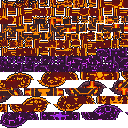
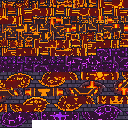
The Outer Keep built room by room: the Killing Ground's flank walls, burning trenches and gate wall; the Siege Trench's angled defences and alcoves; two real Watchtowers; the Drawbridge Engine's housings, winch drums, levers and platforms; the Barbican's thick wall, arch and guard alcoves; the Hall 

diff --git a/src/world/maps.js b/src/world/maps.js
@@ -1847,14 +1847,14 @@ export function dungeon(seed, def) {
   // which of the sheet's four each keep room is (2026-11-02, the user: "whichever rooms you think would look best with which
   // design. But make a unique room for the drawbridge"): halls of state, broken courtyards, a fire bastion, ritual galleries;
   // the Drawbridge Engine its own: the machine that works the bridge
-  const KEEP_KIND = { a22: 'hall', a24: 'hall', a25: 'hall', a27: 'hall', a29: 'hall', a20: 'yard', a28: 'yard', a33: 'yard', a21: 'bastion', a30: 'bastion',
+  const KEEP_KIND = { a22: 'towers', a24: 'barbican', a25: 'banners', a26: 'court', a27: 'hall', a29: 'hall', a20: 'killing', a28: 'yard', a33: 'yard', a21: 'trench', a30: 'bastion',
     a31: 'ritual', a32: 'ritual', a37: 'ritual', a23: 'engine' };
   m.keepKind = KEEP_KIND; m.keepSkin = m.keepSkin || new Map();
   const keepDress = (n) => {
     const kind = KEEP_KIND[n.key], skin = (x, y, name) => m.keepSkin.set(y * S + x, name);
     // its banners by what the room is (the user's banner rules, 2026-11-02): crown in halls of state, sun on the defences,
     // forge in the forges, cursed purple in ritual rooms, torn where the battle went through
-    const forge = n.num >= 34, BAN = kind === 'hall' ? ['banner_crown', 'banner_sun'] : kind === 'ritual' ? ['banner_cursed', 'banner_eclipse'] : kind === 'yard' ? ['banner_crown_torn', 'banner_sun_torn', 'banner_castle_torn'] : forge ? ['banner_forge', 'banner_chain_forge'] : kind === 'engine' ? ['banner_forge'] : ['banner_sun', 'banner_castle'];
+    const forge = n.num >= 34, BAN = kind === 'banners' || kind === 'court' ? ['banner_cursed', 'banner_crown', 'banner_eclipse'] : kind === 'barbican' ? ['banner_crown', 'banner_sun'] : kind === 'killing' || kind === 'trench' ? ['banner_sun_torn', 'banner_crown_torn', 'banner_castle_torn'] : kind === 'towers' ? ['banner_sun', 'banner_chain_sun'] : kind === 'hall' ? ['banner_crown', 'banner_sun'] : kind === 'ritual' ? ['banner_cursed', 'banner_eclipse'] : kind === 'yard' ? ['banner_crown_torn', 'banner_sun_torn', 'banner_castle_torn'] : forge ? ['banner_forge', 'banner_chain_forge'] : kind === 'engine' ? ['banner_forge'] : ['banner_sun', 'banner_castle'];
     const fl = (x, y) => { const t = tile(x, y); return t !== WALL && t !== TID.void && !SOLID_TILES.has(t) && t !== TID.lava; }, wl = (x, y) => !fl(x, y);
     const road = m.castle && m.castle.roadTiles, clear = (x, y) => !(road && road.has(y * S + x)) && !m.objects.some((o) => Math.floor(o.x) === x && Math.floor(o.y) === y);
     const cx = Math.round(n.cx), cy = Math.round(n.cy), topY = (x) => { for (let y = n.y; y < n.y + n.h; y++) if (fl(x, y)) return y; return n.y; };
@@ -1978,8 +1978,88 @@ export function dungeon(seed, def) {
     }
     for (const [x, y] of ends.slice(0, 8)) if (!m.objects.some((o) => Math.floor(o.x) === x && Math.floor(o.y) === y)) put(m, 'keep_decor/keep_pylon', x, y, true);
   };
+  // ---- THE OUTER KEEP, built (2026-11-02, the user's rebuild: "The Outer Keep should be the most visually impressive region
+  // before the Hollow Jarls ... Rooms must look like they were built for specific purposes"). Each room's own architecture
+  // in the keep's stone (its walls kpwall; raised floors and carpets as ground), never across a way in or out, its open
+  // ground kept for fighting
+  const outerKeep = (n) => {
+    const road = m.castle.roadTiles, nearRd = (x, y, r = 1) => { for (let dy = -r; dy <= r; dy++) for (let dx = -r; dx <= r; dx++) if (road.has((y + dy) * S + x + dx)) return true; return false; };
+    const fl = (x, y) => isF(x, y) && tile(x, y) !== TID.lava, free = (x, y) => fl(x, y) && !m.objects.some((o) => Math.floor(o.x) === x && Math.floor(o.y) === y);
+    const W = (x, y) => { if (fl(x, y) && !nearRd(x, y, 1)) set(x, y, TID.kpwall); };   // (a block of wall, never on a way)
+    const O = (sp, x, y, solid = true, ex) => { x = Math.round(x); y = Math.round(y); if (free(x, y) && !nearRd(x, y, 0)) put(m, sp, x, y, solid, ex); };
+    const F = (fx, fy) => [Math.round(n.x + fx * (n.w - 1)), Math.round(n.y + fy * (n.h - 1))];
+    const skin = (x, y, name) => m.keepSkin.set(y * S + x, name);
+    const runnerEW = (y, x0, x1, style = 'crown') => { for (let x = x0; x <= x1; x++) for (let c = 0; c < 3; c++) { const yy = y - 1 + c; if (!fl(yy === y ? x : x, yy)) continue; set(x, yy, TID.kpcarpet); skin(x, yy, `${style}_ew_${x === x1 ? 'top' : x === x0 ? 'bot' : 'mid' + ((x1 - x) % 4)}_${c}`); } };
+    const runnerNS = (x, y0, y1, style = 'crown') => { for (let y = y0; y <= y1; y++) for (let c = 0; c < 3; c++) { const xx = x - 1 + c; if (!fl(xx, y)) continue; set(xx, y, TID.kpcarpet); skin(xx, y, `${style}_ns_${y === y0 ? 'top' : y === y1 ? 'bot' : 'mid' + ((y - y0) % 4)}_${c}`); } };
+    const emblem = (cx, cy, style) => { for (let j = 0; j < 5; j++) for (let k = 0; k < 5; k++) if (fl(cx - 2 + k, cy - 2 + j)) { if (tile(cx - 2 + k, cy - 2 + j) === TID.kpcarpet) set(cx - 2 + k, cy - 2 + j, FLOOR); skin(cx - 2 + k, cy - 2 + j, `emblem_${style}_${j * 5 + k}`); } };   // (an emblem lies over a runner: its tiles floor again)
+    const dais = (cx, cy, w2, h2) => { for (let dy = -h2; dy <= h2; dy++) for (let dx = -w2; dx <= w2; dx++) if (fl(cx + dx, cy + dy)) skin(cx + dx, cy + dy, Math.abs(dx) === w2 || Math.abs(dy) === h2 ? 'keep_step' : 'keep_dais'); };
+    const hsh = (x, y) => ((Math.sin(x * 12.9898 + y * 78.233) * 43758.5453) % 1 + 1) % 1;
+    if (n.key === 'a20') {                                   // THE KILLING GROUND: the exposed approach. Walls down both flanks (broken by the siege),
+      // two burning trenches across it, the wreck of the assault everywhere, guard posts, and the castle's great gate ahead
+      for (const fy of [0.1, 0.9]) for (let x = n.x + 3; x < n.x + n.w - 3; x++) { const y = F(0, fy)[1]; if (Math.sin(x * 0.9 + fy * 7) < 0.75) { W(x, y); W(x, y + (fy < 0.5 ? 1 : -1)); } }
+      for (const [ax, ay, bx, by] of [[0.28, 0.24, 0.44, 0.42], [0.58, 0.6, 0.74, 0.8]]) { const [x0, y0] = F(ax, ay), [x1, y1] = F(bx, by), L = Math.max(Math.abs(x1 - x0), Math.abs(y1 - y0)); for (let k = 0; k <= L; k++) { const x = Math.round(x0 + (x1 - x0) * k / L), y = Math.round(y0 + (y1 - y0) * k / L); for (const d of [0, 1]) if (fl(x + d, y) && !nearRd(x + d, y, 2)) set(x + d, y, TID.lava); } }
+      { const gx = n.x + n.w - 3; for (let y = n.y + 4; y < n.y + n.h - 4; y++) W(gx, y); for (const fy of [0.22, 0.78]) { const y = F(0, fy)[1]; O('castle_art/statue_king', gx - 2, y); O('keep_decor/keep_pylon', gx - 1, y + (fy < 0.5 ? 3 : -3)); } }   // (the castle's gate wall ahead, kings either side of it)
+      for (const [fx, fy, sp, so] of [[0.18, 0.3, 'castle_decor/broken_catapult', true], [0.75, 0.25, 'castle_decor/siege_engine', true], [0.3, 0.72, 'castle_decor/barricade', true], [0.48, 0.55, 'castle_decor/barricade', true], [0.66, 0.4, 'castle_decor/burning_debris', false],
+        [0.22, 0.85, 'castle_decor/fallen_soldier', false], [0.55, 0.2, 'castle_decor/fallen_soldier', false], [0.4, 0.82, 'castle_art/banner_sun_torn', false], [0.62, 0.15, 'castle_art/banner_crown_torn', false], [0.12, 0.55, 'castle_decor/rubble', false], [0.85, 0.6, 'castle_decor/rubble', false], [0.35, 0.18, 'castle_art/ruin_torso', true]]) O(sp, ...F(fx, fy), so);
+      for (const [fx, fy] of [[0.15, 0.2], [0.82, 0.82]]) { const [x, y] = F(fx, fy); O('castle_art/pedestal_banner', x, y); O('castle_art/brazier_gold', x + 1, y); O('castle_decor/barricade', x, y + 1); }   // (guard posts)
+      for (const fx of [0.3, 0.6]) for (const fy of [0.14, 0.86]) O('castle_art/gargoyle_perched', ...F(fx, fy));   // (gargoyles on the flank walls)
+    }
+    if (n.key === 'a21') {                                   // THE SIEGE TRENCH: angled stone defences between its lava channels, pockets to hold, wrecked carts, racks, burning pits
+      for (const [ax, ay, dx, dy] of [[0.2, 0.42, 1, 1], [0.62, 0.42, 1, -1], [0.38, 0.58, -1, 1], [0.8, 0.58, -1, -1]]) { const [x, y] = F(ax, ay); for (let k = 0; k < 5; k++) { W(x + k * dx, y + Math.floor(k / 2) * dy); } }
+      for (const [fx, fy, open] of [[0.12, 0.12, 1], [0.88, 0.12, -1], [0.12, 0.88, 1], [0.88, 0.88, -1]]) { const [x, y] = F(fx, fy); for (let k = -1; k <= 1; k++) { W(x - open, y + k); } W(x, y - 1); W(x, y + 1); O('castle_art/statue_knight', x, y); }   // (alcoves, a sentinel in each)
+      for (const [fx, fy, sp] of [[0.3, 0.15, 'castle_decor/wagon'], [0.7, 0.85, 'castle_decor/wagon'], [0.45, 0.12, 'keep_decor/keep_rack'], [0.55, 0.88, 'keep_decor/keep_rack'], [0.08, 0.5, 'keep_decor/keep_rack'], [0.5, 0.48, 'castle_decor/pyre'], [0.25, 0.5, 'castle_decor/pyre'], [0.75, 0.5, 'castle_decor/burning_debris'], [0.62, 0.18, 'crate'], [0.35, 0.85, 'barrel']]) O(sp, ...F(fx, fy), sp !== 'castle_decor/burning_debris');
+      for (const fy of [0.3, 0.7]) { const y = F(0, fy)[1]; for (let x = n.x + 3; x < n.x + n.w - 3; x++) if (tile(x, y) !== TID.lava && tile(x - 1, y) === TID.lava) { O('castle_decor/barricade', x, y - (fy < 0.5 ? 2 : -2)); } }   // (a barricade by each crossing)
+    }
+    if (n.key === 'a22') {                                   // THE TWIN WATCHTOWERS: two real towers, a ring of stone each with a door toward the yard and a stair up
+      // to it, a raised floor inside and the signal brazier at its middle (castle_plan MECHS brazL/brazR); a battlement along the north
+      for (const [fx, side] of [[0.2, 1], [0.8, -1]]) {
+        const [tx, ty] = F(fx, 0.7);
+        for (let dy = -3; dy <= 3; dy++) for (let dx = -3; dx <= 3; dx++) {
+          const ring = Math.abs(dx) === 3 || Math.abs(dy) === 3, door = Math.sign(dx) === side && Math.abs(dx) === 3 && Math.abs(dy) <= 1;
+          if (ring && !door && fl(tx + dx, ty + dy)) set(tx + dx, ty + dy, TID.kpwall); else if (!ring) skin(tx + dx, ty + dy, 'keep_dais');
+        }
+        for (let dy = -1; dy <= 1; dy++) skin(tx + side * 4, ty + dy, 'keep_stair');
+        O('castle_art/banner_chain_sun', tx + side * 4, ty - 3, false); O('keep_decor/keep_pylon', tx + side * 4, ty + 3);
+      }
+      for (let x = n.x + 3; x < n.x + n.w - 3; x++) { const y = n.y + 3; if (x % 2) W(x, y); W(x, y + 1); }   // (the battlement)
+    }
+    if (n.key === 'a23') {                                   // THE DRAWBRIDGE ENGINE: machinery housings with winch drums, chains to the bridge, levers by the clamps, platforms
+      for (const fx of [0.3, 0.7]) { const [x, y] = F(fx, 0.12); for (let dy = 0; dy < 2; dy++) for (let dx = -2; dx <= 2; dx++) W(x + dx, y + dy); O('keep_decor/keep_winch', x, y + 3); for (let k = 0; k < 3; k++) O('castle_decor/chain_post', x + (fx < 0.5 ? 1 : -1) * (k + 1), y + 3 - k, false); }
+      for (const fx of [0.12, 0.88]) O('keep_decor/keep_lever', ...F(fx, 0.3));
+      for (const fx of [0.2, 0.8]) { const [x, y] = F(fx, 0.62); dais(x, y, 2, 1); }
+    }
+    if (n.key === 'a24') {                                   // THE BARBICAN: the gate through the outer wall: a thick double wall across it, an arch, guard alcoves, platforms behind, the wreck of its old gate
+      const yw = F(0, 0.45)[1];
+      for (let x = n.x; x < n.x + n.w; x++) { if (Math.abs(x - n.cx) <= 2) continue; W(x, yw); W(x, yw + 1); }
+      for (const d of [-3, 3]) O('keep_decor/keep_pylon', n.cx + d, yw + 2);
+      O('castle_decor/gate_portcullis_open', n.cx - 1, yw - 1, false); O('castle_decor/rubble', n.cx + 1, yw + 3, false);
+      for (const fx of [0.2, 0.8]) { const x = F(fx, 0)[0]; W(x - 2, yw + 2); W(x - 2, yw + 3); W(x + 2, yw + 2); W(x + 2, yw + 3); O('castle_art/statue_knight', x, yw + 2); O('castle_art/banner_crown', x, yw - 1, false); }   // (alcoves in its face, a knight in each)
+      for (const fx of [0.18, 0.82]) { const [x, y] = F(fx, 0.2); dais(x, y, 3, 1); O('castle_art/brazier_gold', x - 3, y); O('castle_art/brazier_gold', x + 3, y); }   // (platforms behind the wall)
+      for (const [fx, fy, sp] of [[0.4, 0.78, 'castle_decor/broken_catapult'], [0.65, 0.85, 'castle_decor/burning_debris'], [0.3, 0.6, 'castle_art/ruin_kneeling'], [0.72, 0.6, 'castle_decor/rubble']]) O(sp, ...F(fx, fy), !/debris|rubble/.test(sp));
+    }
+    if (n.key === 'a25') {                                   // THE HALL OF HOLLOW BANNERS: a corrupted ceremonial hall: its runner its whole length, crown and sun in its floor,
+      // kings and queens down both sides, broken columns, gold and purple fire; the sealed gate at its far end (the cursed banners' light runs into it: render)
+      const cy = Math.round(n.cy); runnerEW(cy, n.x + 2, n.x + n.w - 3, 'crown'); emblem(F(0.35, 0)[0], cy, 'crown'); emblem(F(0.68, 0)[0], cy, 'sun');
+      for (const fx of [0.2, 0.42, 0.58, 0.8]) for (const fy of [0.25, 0.75]) O('castle_art/' + ((fx * 10 | 0) % 2 ? 'statue_queen' : 'statue_king'), ...F(fx, fy));
+      for (const fx of [0.3, 0.5, 0.7]) for (const fy of [0.36, 0.64]) O(hsh(fx * 9, fy * 7) < 0.4 ? 'castle_decor/collapsed_pillar' : 'keep_decor/keep_pillar', ...F(fx, fy));
+      for (const fx of [0.12, 0.88]) for (const fy of [0.2, 0.8]) O('castle_art/' + (fx < 0.5 ? 'brazier_purple' : 'brazier_gold'), ...F(fx, fy));
+      { const gx = n.x + 1; for (const d of [-4, -3, 3, 4]) { W(gx, cy + d); W(gx + 1, cy + d); } O('castle_art/throne_chained', gx + 2, cy - 4); O('castle_art/throne_chained', gx + 2, cy + 4); O('castle_art/pedestal_crystal', gx + 3, cy - 2); O('castle_art/pedestal_crystal', gx + 3, cy + 2); }   // (the sealed gate's frame, chained kings guarding it)
+    }
+    if (n.key === 'a26') {                                   // THE HOLLOW JARLS' COURT: a royal defensive courtyard. A crown sigil at its heart; the runner leading in to it; the
+      // Wizard's ritual platforms at his marks (src/bosses/jarl_wizard.js MARKS); kings in the corners; broken columns round its edge; its lanes kept open
+      const at40 = (sx, sy) => [Math.round(n.x + (sx / 40) * n.w), Math.round(n.y + (sy / 34) * n.h)];
+      const [cx, cy] = at40(20, 17); emblem(cx, cy, 'crown');
+      for (const [sx, sy] of [[10, 9], [30, 9], [30, 25], [10, 25]]) { const [x, y] = at40(sx, sy); dais(x, y, 1, 1); }
+      runnerEW(cy, cx + 3, n.x + n.w - 3, 'crown');
+      for (const [fx, fy] of [[0.06, 0.08], [0.94, 0.08], [0.06, 0.92], [0.94, 0.92]]) O('castle_art/throne_horned', ...F(fx, fy));
+      for (let k = 0; k < 10; k++) { const a = k * Math.PI / 5 + 0.3, [x, y] = [Math.round(n.cx + Math.cos(a) * n.w * 0.45), Math.round(n.cy + Math.sin(a) * n.h * 0.44)]; O(k % 3 ? 'castle_decor/collapsed_pillar' : 'keep_decor/keep_pillar', x, y); }
+      for (const fx of [0.25, 0.75]) for (const fy of [0.04, 0.96]) O('castle_art/brazier_gold', ...F(fx, fy));
+      for (const fx of [0.42, 0.58]) O('castle_art/statue_king', ...F(fx, 0.05));   // (kings either side of the gate to the inner keep)
+    }
+  };
   const castleDress = (n) => {
     if (n.region === 'outer' || n.region === 'inner') keepDress(n);
+    if (/^a2[0-6]$/.test(n.key)) outerKeep(n);
     const at = (fx, fy) => [Math.round(n.x + fx * n.w), Math.round(n.y + fy * n.h)];
     const P = (sprite, fx, fy, solid = true) => { const [x, y] = at(fx, fy); put2(null, x, y, sprite, solid); };
     const wall = (fx0, fy0, fx1, fy1) => { const [x0, y0] = at(fx0, fy0), [x1, y1] = at(fx1, fy1); for (let y = Math.min(y0, y1); y <= Math.max(y0, y1); y++) for (let x = Math.min(x0, x1); x <= Math.max(x0, x1); x++) if (isF(x, y)) set(x, y, TID.void); };   // (a wall inside an area: its rooms, its passages)
@@ -2034,13 +2114,13 @@ export function dungeon(seed, def) {
       case 'a18': P('castle_art/statue_knight', 0.38, 0.12); P('castle_art/statue_knight', 0.62, 0.12); for (const [fx, fy] of [[0.18, 0.45], [0.82, 0.45]]) P('castle_art/pedestal_banner', fx, fy); P('castle_decor/pyre', 0.5, 0.82); P('castle_decor/barricade', 0.3, 0.7); P('castle_decor/barricade', 0.7, 0.7); P('castle_decor/tent', 0.15, 0.2); break;   // (its layered barricades; the two pyres stand as monsters: src/data/enemies.js)
       case 'a19': if (n.key === 'a19') { for (const fx of [0.22, 0.4, 0.6, 0.78]) P('castle_art/banner_sun', fx, 0.2, false); P('castle_art/statue_knight', 0.43, 0.24); P('castle_art/statue_knight', 0.57, 0.24); for (const fx of [0.15, 0.85]) P('castle_art/gargoyle_perched', fx, 0.08); P('castle_art/ruin_torso', 0.3, 0.7); P('castle_decor/rubble', 0.5, 0.18, false); }
       // falls through: its barricades, siege engine, braziers (the Killing Ground's too)
-      case 'a20': row('banner', 0.1, 0.15, 0.85, 8); P('castle_decor/barricade', 0.3, 0.55); P('castle_decor/barricade', 0.7, 0.55); P('castle_decor/siege_engine', 0.12, 0.8); P('brazier', 0.15, 0.5); P('brazier', 0.85, 0.5); break;
+      case 'a20': if (n.key === 'a19') { row('banner', 0.1, 0.15, 0.85, 8); P('castle_decor/barricade', 0.3, 0.55); P('castle_decor/barricade', 0.7, 0.55); P('castle_decor/siege_engine', 0.12, 0.8); P('brazier', 0.15, 0.5); P('brazier', 0.85, 0.5); } break;
       case 'a21': for (const fy of [0.3, 0.7]) for (let x = n.x + 3; x < n.x + n.w - 3; x++) if (x % 9 > 1) set(x, Math.round(n.y + fy * n.h), TID.lava);   // (its shallow lava channels, crossed at the gaps)
         P('castle_decor/barricade', 0.3, 0.45); P('castle_decor/barricade', 0.7, 0.55); P('castle_decor/barricade', 0.5, 0.85); P('castle_decor/siege_engine', 0.8, 0.15); P('castle_decor/burning_debris', 0.2, 0.15, false); break;
-      case 'a22': for (const fx of [0.2, 0.8]) { const [x, y] = at(fx, 0.4); carve(x - 2, y - 2, x + 2, y + 2, TID.void); } row('banner', 0.08, 0.35, 0.65, 6); row('castle_decor/rubble', 0.75, 0.35, 0.65, 5, false); break;   // (the two towers on the battlements; their signal braziers are the mechanisms: castle.mechs)
-      case 'a23': P('castle_decor/gear', 0.2, 0.2); P('castle_decor/gear', 0.35, 0.2); P('castle_decor/gear', 0.8, 0.2); P('castle_decor/chain_post', 0.65, 0.2); P('castle_decor/chain_post', 0.2, 0.75, false); P('castle_decor/chain_post', 0.8, 0.75, false); break;   // (the drawbridge's gears and chains)
-      case 'a24': wall(0, 0.45, 0.42, 0.45); wall(0.58, 0.45, 1, 0.45); P('castle_decor/portcullis', 0.5, 0.92, false); P('castle_decor/portcullis', 0.5, 0.45, false);   // (two defensive lines: the wall across it, its portcullis raised) row('rune_pillar', 0.3, 0.2, 0.8, 10); for (const fx of [0.08, 0.92]) for (const fy of [0.25, 0.65]) P('brazier', fx, fy); break;   // (its two portcullises, raised: the two defensive lines; its arches; the murder-holes' fires)
-      case 'a25': row('banner', 0.08, 0.1, 0.9, 6); row('bust_statue', 0.85, 0.15, 0.85, 9); for (const fx of [0.12, 0.88]) P('brazier', fx, 0.5); P('castle_decor/portcullis', 0.5, 0.05, false); break;   // (banners, the Jarls' statues, its sealed gate)
+      case 'a22': break;   // (the Twin Watchtowers: outerKeep)
+      case 'a23': break;   // (the Drawbridge Engine: keepDress's engine and outerKeep)
+      case 'a24': break;   // (the Barbican: outerKeep)
+      case 'a25': break;   // (the Hall of Hollow Banners: outerKeep)
       case 'a27': P('castle_decor/shattered_statue', 0.2, 0.3); P('castle_decor/shattered_statue', 0.8, 0.3); P('castle_decor/statue_head', 0.4, 0.6, false); P('castle_decor/chandelier', 0.6, 0.5, false); P('castle_decor/portcullis', 0.5, 0.06, false); P('banner', 0.3, 0.06); P('banner', 0.7, 0.06); break;   // (the broken kings, a chandelier come down, the great doors)
       case 'a28': row('castle_decor/table', 0.35, 0.15, 0.45, 2, true); row('castle_decor/table', 0.65, 0.15, 0.45, 2, true); row('bench_h', 0.28, 0.15, 0.45, 2, true); P('castle_decor/chandelier', 0.3, 0.5, false); P('castle_decor/collapsed_pillar', 0.75, 0.3); P('castle_decor/collapsed_pillar', 0.85, 0.7); P('castle_decor/rubble', 0.7, 0.8, false); for (let k = 0; k < n.w * 0.5; k++) { const x = Math.round(n.x + n.w * 0.55 + k * 0.6), y = Math.round(n.y + n.h * 0.2 + k); if (isF(x, y) && k % 7 !== 3) { set(x, y, TID.lava); set(x + 1, y, TID.lava); } } break;   // (the tables; the fissure across it, crossed where it narrows)
       case 'a29': for (const fx of [0.35, 0.65]) { wall(fx, 0, fx, 0.4); wall(fx, 0.6, fx, 1); } row('weapon_rack', 0.08, 0.4, 0.6, 3);   // (the guard hall in the middle, the bunk rooms either side through their doors)

diff --git a/src/render.js b/src/render.js
@@ -296,7 +296,7 @@ export class Renderer {
     for (const f of g.fx) if (f.kind === 'cloud' || f.kind === 'zone' || f.kind === 'pool') this.groundFx(f, g);
     for (const e of g.active || []) if (!e.dead && (e.pulseUntil > g.t || e.chainTo)) this.pulseChain(g, e);
     if (g.activeMap === m) for (const e of g.notable) if (e.bx && e.bx.B.drawGround && !e.dead) { try { e.bx.B.drawGround(this, g, e); } catch (err) { if (!e.net) throw err; } }   // (a shared boss draws from the server's word: a gap there must not stop the game)   // a boss's hazards on the ground
-    if (m.castle && m.castle.rooms) this.castleBridges(g, m);
+    if (m.castle && m.castle.rooms) { this.castleBridges(g, m); this.castleBeams(g, m); }
     for (const f of g.fx) if (f.kind === 'fissure') this.fissureFx(f, g);   // (the eruption's: on the ground, under everything)
     if (m.graves) this.drawGraves(g, m);                        // the fallen: a gravestone each, where they fell
     this.spGround(g);                                       // set-piece telegraphs (src/setpieces.js)
@@ -2170,6 +2170,20 @@ export class Renderer {
         }
       }
     }
+  }
+  // the Hall of Hollow Banners' seal (2026-11-02, the user: the cursed banners "should appear to be ancient magical objects
+  // powering the gate"): from each banner still standing, cursed light running along the floor into the sealed gate (the
+  // way on to the Jarls' court), the seal pulsing with it; a banner broken, its line goes out; all three, and the gate opens
+  castleBeams(g, m) {
+    const W = m.castle.plan && m.castle.plan.ways && m.castle.plan.ways['25-26']; if (!W) return;
+    const L = g.enemies.filter((e) => !e.dead && e.D.kin === 'cursed_banner' && Math.hypot(e.x - g.player.x, e.y - g.player.y) < 45); if (!L.length) return;
+    const b = this.b, [gx, gy] = this.proj(W.mid[0] + 0.5, W.mid[1] + 0.5);
+    for (const e of L) {
+      const [ex, ey] = this.proj(e.x, e.y), d = Math.hypot(gx - ex, gy - ey), n = Math.max(2, Math.floor(d / 3));
+      b.globalAlpha = 0.25; b.strokeStyle = '#8a3ac8'; b.lineWidth = 3; b.beginPath(); b.moveTo(ex, ey); b.lineTo(gx, gy); b.stroke(); b.globalAlpha = 1;
+      for (let k = 0; k < n; k++) { const t = ((k / n) + g.t * 0.6) % 1, x = Math.round(ex + (gx - ex) * t), y = Math.round(ey + (gy - ey) * t); b.fillStyle = k % 3 ? '#c870ff' : '#f0d0ff'; b.fillRect(x - 1, y - 1, 2, 2); }   // (the light running toward the gate)
+    }
+    const r = 10 + 3 * Math.sin(g.t * 4) + L.length * 2; b.globalAlpha = 0.5; b.strokeStyle = '#d090ff'; b.lineWidth = 2; b.beginPath(); b.ellipse(gx, gy, r, r * 0.6, 0, 0, Math.PI * 2); b.stroke(); b.globalAlpha = 1;
   }
   laneFx(f, g) {
     const b = this.b, live = f.t >= f.delay, L = f.len, n = Math.ceil(L * 2);

diff --git a/src/data/enemies.js b/src/data/enemies.js
@@ -1497,7 +1497,7 @@ ENEMIES.sol_blacksun = { name: 'Black Sun', biome: 'throne', hp: 30000, def: 12,
 ENEMIES.siege_battery = { name: 'Battery Mechanism', biome: 'throne', reg: 'castle_decor/siege_engine', hp: 16000, def: 14, speed: 0, xp: 0, r: 0.7, ai: 'rooted', aggro: 0, target: true, attacks: [], loot: [] };   // (the Broken Siege Battery's working engine: src/castle.js fires its lane while it stands)
 ENEMIES.burning_pyre = { name: 'Ritual Pyre', biome: 'throne', reg: 'castle_decor/pyre', hp: 12000, def: 12, speed: 0, xp: 0, r: 0.7, ai: 'rooted', aggro: 16, target: true,
   attacks: [{ pattern: 'aimed', proj: 'castle_shots/flame', count: 5, arc: 0.9, dmg: 89, speed: 5, range: 13, cd: 2.0, tell: 400 }], loot: [] };   // (the Pyre Redoubt's: the cultists' fire; break them and it stops)
-ENEMIES.cursed_banner = { name: 'Cursed Banner', biome: 'throne', reg: 'castle_decor/banner_torn', hp: 15000, def: 10, speed: 0, xp: 0, r: 0.6, ai: 'rooted', aggro: 28, target: true, kin: 'cursed_banner', scale: 1.5, hitUp: 1.2,
+ENEMIES.cursed_banner = { name: 'Cursed Banner', biome: 'throne', reg: 'castle_art/banner_chain_cursed', hp: 15000, def: 10, speed: 0, xp: 0, r: 0.6, ai: 'rooted', aggro: 28, target: true, kin: 'cursed_banner', scale: 1.5, hitUp: 1.2,
   attacks: [], loot: [] };   // (the Hall of Hollow Banners': src/castle_kin.js, their crossing fire)
 ENEMIES.cursed_altar = { name: 'Cursed Altar', biome: 'throne', reg: 'castle_decor/eclipse_obelisk', hp: 8000, def: 10, speed: 0, xp: 0, r: 0.6, ai: 'rooted', aggro: 14, target: true,
   attacks: [{ pattern: 'aimed', proj: 'wiz_shots/bolt', count: 5, arc: 1.1, dmg: 79, speed: 4.5, range: 12, cd: 3, tell: 500 }], loot: [] };   // (the chapel's ritual, the shrine's)

diff --git a/tools/build_keep_tiles.py b/tools/build_keep_tiles.py
@@ -67,6 +67,9 @@ for k in range(3):                                            # the bastion's gr
     DECOR[f'keep_ritual{k}'] = mg + ['IiiiiiiiiI', '.iIIIIIIi.', '..kiiiik..', '...kiik...', '...kiik...', '..kkiikk..', '.kkkkkkkk.']
 DECOR['keep_rail'] = ['.hhhhhh.', 'hllllllm', 'mddddddm', '..lsd...', '..lsd...', '..lsd...', '.hlllld.', 'mmmmmmmm']   # (a bridge's balustrade post)
 DECOR['keep_pylon'] = ['...F..F...', '..fFwwFf..', '..efFFfe..', 'IIiiiiiiII', '.kIIIIIIk.', 'hhhhhhhhhh', 'hllllllllm', 'mddgGgdddm', '.lsgGGgdl.', '.lsdgGdsl.', '.lssdgsdl.', '.llsssdsl.', '.lssssddl.', '.llsssdsl.', '.lssssddl.', '.llsssdsl.', '.lssssddl.', 'hllllllllm', 'mddddddddm', 'mmmmmmmmmm']   # (a bridge's gateway pylon, a sun on it, a fire on top)
+DECOR['keep_rack'] = ['.h..h..h..h.', '.I..I..I..I.', '.I..I..I..I.', 'nnnnnnnnnnnn', 'n.I..I..I..n', 'n.I..I..I..n', 'n.I..I..I..n', 'n.h..h..h..n', 'nnnnnnnnnnnn', 'n..........n', 'n..........n', 'nk........kn']   # (a weapon rack: spears and blades)
+DECOR['keep_winch'] = ['..kkkkkkkkkkkkkk..', '.kIiIiIiIiIiIiIik.', 'kInnnnInnnnInnnnIk', 'kIhhhhIhhhhIhhhhIk', 'kInnnnInnnnInnnnIk', 'kIhhhhIhhhhIhhhhIk', 'kInnnnInnnnInnnnIk', '.kIiIiIiIiIiIiIik.', '..kkkkkkkkkkkkkk..', '...mllm....mllm...', '...mssm....mssm...', '..mlllm....mlllm..', '..mmmmm....mmmmm..']   # (a winch drum, the chain wound on it)
+DECOR['keep_lever'] = ['.....RR.', '....RqR.', '....kk..', '...kI...', '...kI...', '..kI....', '..kI....', '.kI.....', 'hhhhhhh.', 'llllllm.', 'mddddmm.']   # (an operating lever)
 DECOR['keep_stone_a'] = ['..kkkk..', '.kIhIIk.', '.kIhIIk.', 'kIIhIIik', 'kIIffIik', 'kIIfFIik', 'kIIffIik', 'kIhIIIik', 'kIhIIIik', 'kIIIIiik', 'kIIffiik', 'kIhIIiik', 'kIIIIiik', 'kkIIIikk', 'kkkkkkkk']   # (a standing stone, a rune burning in it)
 DECOR['keep_stone_b'] = ['...kk...', '..kIhk..', '.kIhIIk.', '.kIhIIk.', '.kIIpIk.', '.kIpPpk.', '.kIIpIk.', 'kIhIIIik', 'kIhIIIik', 'kIIIIiik', 'kIhIIiik', 'kkIIIikk', 'kkkkkkkk']
 for k in range(2):                                            # the engine's great gear-wheel, turning (two frames, half a tooth apart)
@@ -132,7 +135,7 @@ if __name__ == '__main__':
     sp['keep_banner'] = {'frames': {'f0': fr['keep_banner']}, 'anims': {'idle': {'frames': ['f0'], 'fps': 1, 'loop': True}}, 'meta': {}}
     sp['keep_pillar'] = {'frames': {'f0': fr['keep_pillar']}, 'anims': {'idle': {'frames': ['f0'], 'fps': 1, 'loop': True}}, 'meta': {}}
     sp['keep_brazier'] = {'frames': {f'f{k}': fr[f'keep_brazier{k}'] for k in range(3)}, 'anims': {'idle': {'frames': ['f0', 'f1', 'f2'], 'fps': 7, 'loop': True}}, 'meta': {}}
-    for nm in ('keep_tree', 'keep_window', 'keep_stone_a', 'keep_stone_b', 'keep_rail', 'keep_pylon'): sp[nm] = {'frames': {'f0': fr[nm]}, 'anims': {'idle': {'frames': ['f0'], 'fps': 1, 'loop': True}}, 'meta': {}}
+    for nm in ('keep_tree', 'keep_window', 'keep_stone_a', 'keep_stone_b', 'keep_rail', 'keep_pylon', 'keep_rack', 'keep_winch', 'keep_lever'): sp[nm] = {'frames': {'f0': fr[nm]}, 'anims': {'idle': {'frames': ['f0'], 'fps': 1, 'loop': True}}, 'meta': {}}
     sp['keep_wheel'] = {'frames': {f'f{k}': fr[f'keep_wheel{k}'] for k in range(2)}, 'anims': {'idle': {'frames': ['f0', 'f1'], 'fps': 3, 'loop': True}}, 'meta': {}}
     for nm in ('keep_bowl', 'keep_ritual'): sp[nm] = {'frames': {f'f{k}': fr[f'{nm}{k}'] for k in range(3)}, 'anims': {'idle': {'frames': ['f0', 'f1', 'f2'], 'fps': 7, 'loop': True}}, 'meta': {}}
     write_png(os.path.join(out, 'keep_decor.png'), sheet)

diff --git a/tools/build_castle_assets.py b/tools/build_castle_assets.py
@@ -89,6 +89,11 @@ if __name__ == '__main__':
         g = resize(trim(load('sheet_carpets', i)), 40, 40)
         for j in range(5):
             for k in range(5): tiles[f'emblem_{st}_{j * 5 + k}'] = [r[k * 8:k * 8 + 8] for r in g[j * 8:j * 8 + 8]]
+    # (each tile laid on the keep's own flagstones: where the carpet's art is clear, the floor shows, never black)
+    kp = read_png(os.path.join(out, 'keep_tiles.png')); ka = json.load(open(os.path.join(out, 'atlas_keep_tiles.json'), encoding='utf8'))['sheets']['kp_tiles']['sprites']
+    flo = [[[kp[ka[f]['frames']['f0'][1] + y][ka[f]['frames']['f0'][0] + x] for x in range(8)] for y in range(8)] for f in ('keep_floor_a', 'keep_floor_b')]
+    for k, (n, t) in enumerate(tiles.items()):
+        F2 = flo[k % 2]; tiles[n] = [[c if c[3] > 128 else F2[y][x] for x, c in enumerate(r)] for y, r in enumerate(t)]
     names = list(tiles); cols = 16; R = (len(names) + cols - 1) // cols
     ts = [[BL] * (cols * 8) for _ in range(R * 8)]; tsp = {}
     for n, k in enumerate(names):
